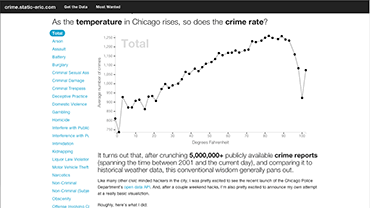
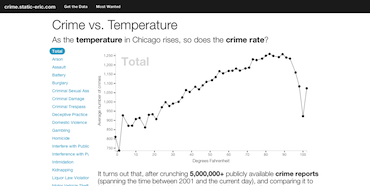
adjust images and css to make screen shots consistent.

diff --git a/assets/css/main.css b/assets/css/main.css
@@ -1,5 +1,6 @@
 div.site-thumbnail{
-  min-height: 208px;
+  min-height: 210px;
+  height: 210px;
   width: 370px;
   position: relative;
 }
